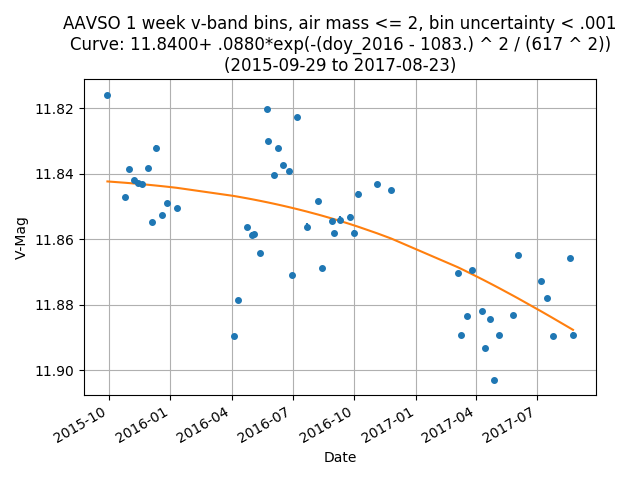
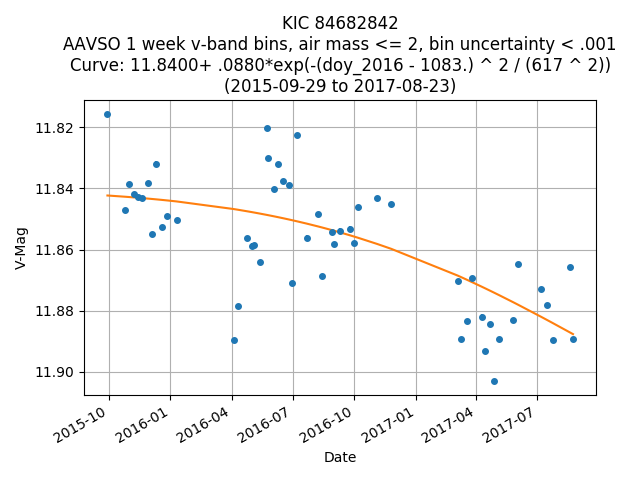
tweaked header again

diff --git a/parse_aavso.py b/parse_aavso.py
@@ -107,7 +107,7 @@ def scatter_plot(combined, plot_name, plot_title, marker_size, fit_type="none"):
     plt.ylabel("V-Mag")
     start_date = x[0]
     end_date = x[len(x)-1]
-    title = plot_title + "\nCurve: 11.8400+ .0880*exp(-(doy_2016 - 1083.) ^ 2 / (617 ^ 2))\n(" + str(start_date) + " to " + str(end_date) + ")"
+    title = "KIC 84682842\n" + plot_title + "\nCurve: 11.8400+ .0880*exp(-(doy_2016 - 1083.) ^ 2 / (617 ^ 2))\n(" + str(start_date) + " to " + str(end_date) + ")"
     # default scale is 1 in your original case, scales with other cases:
 
     plt.title(title)
